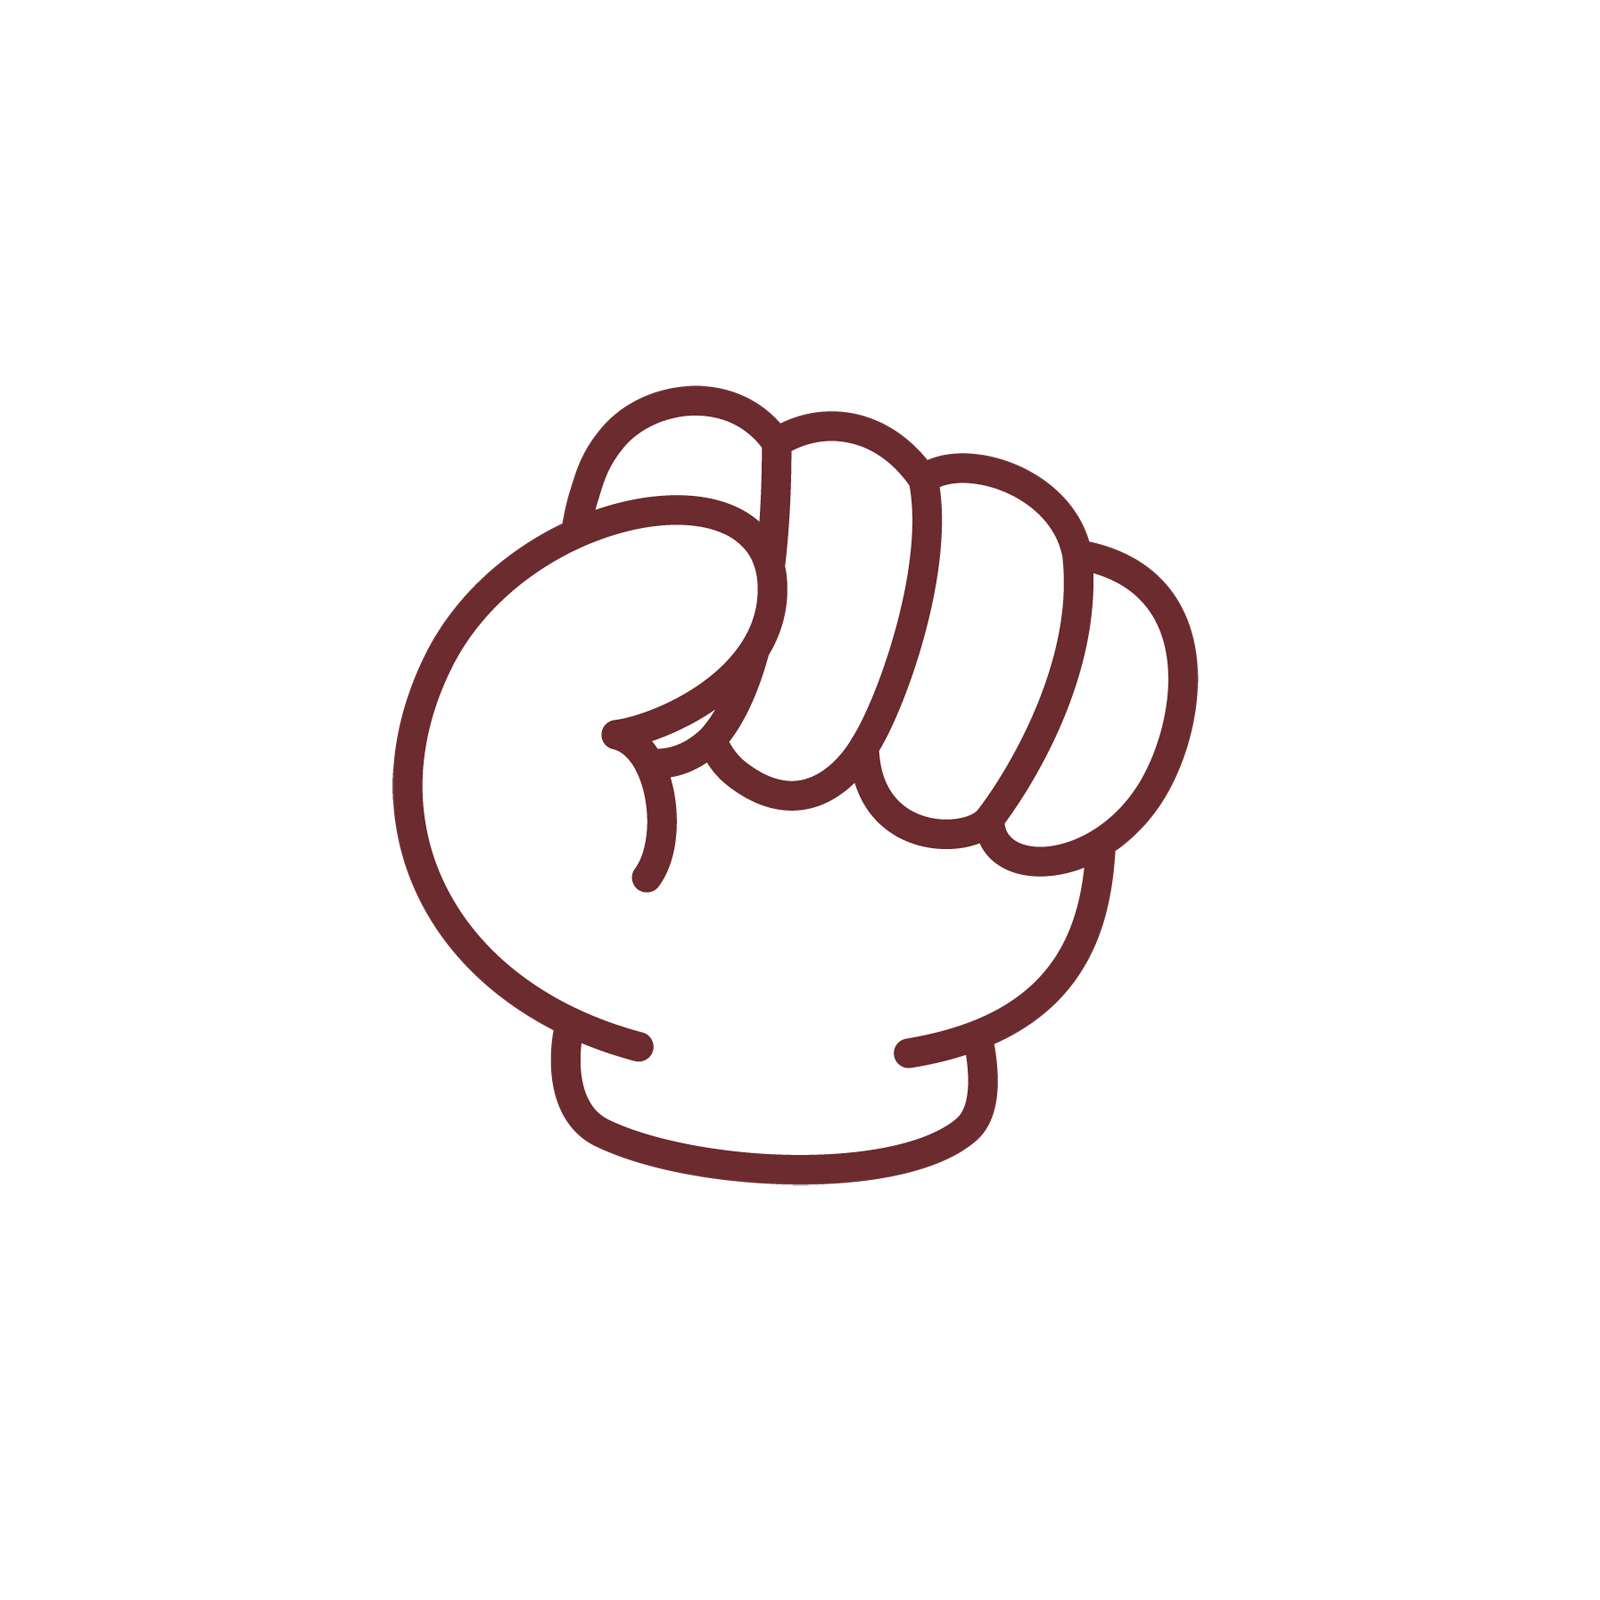
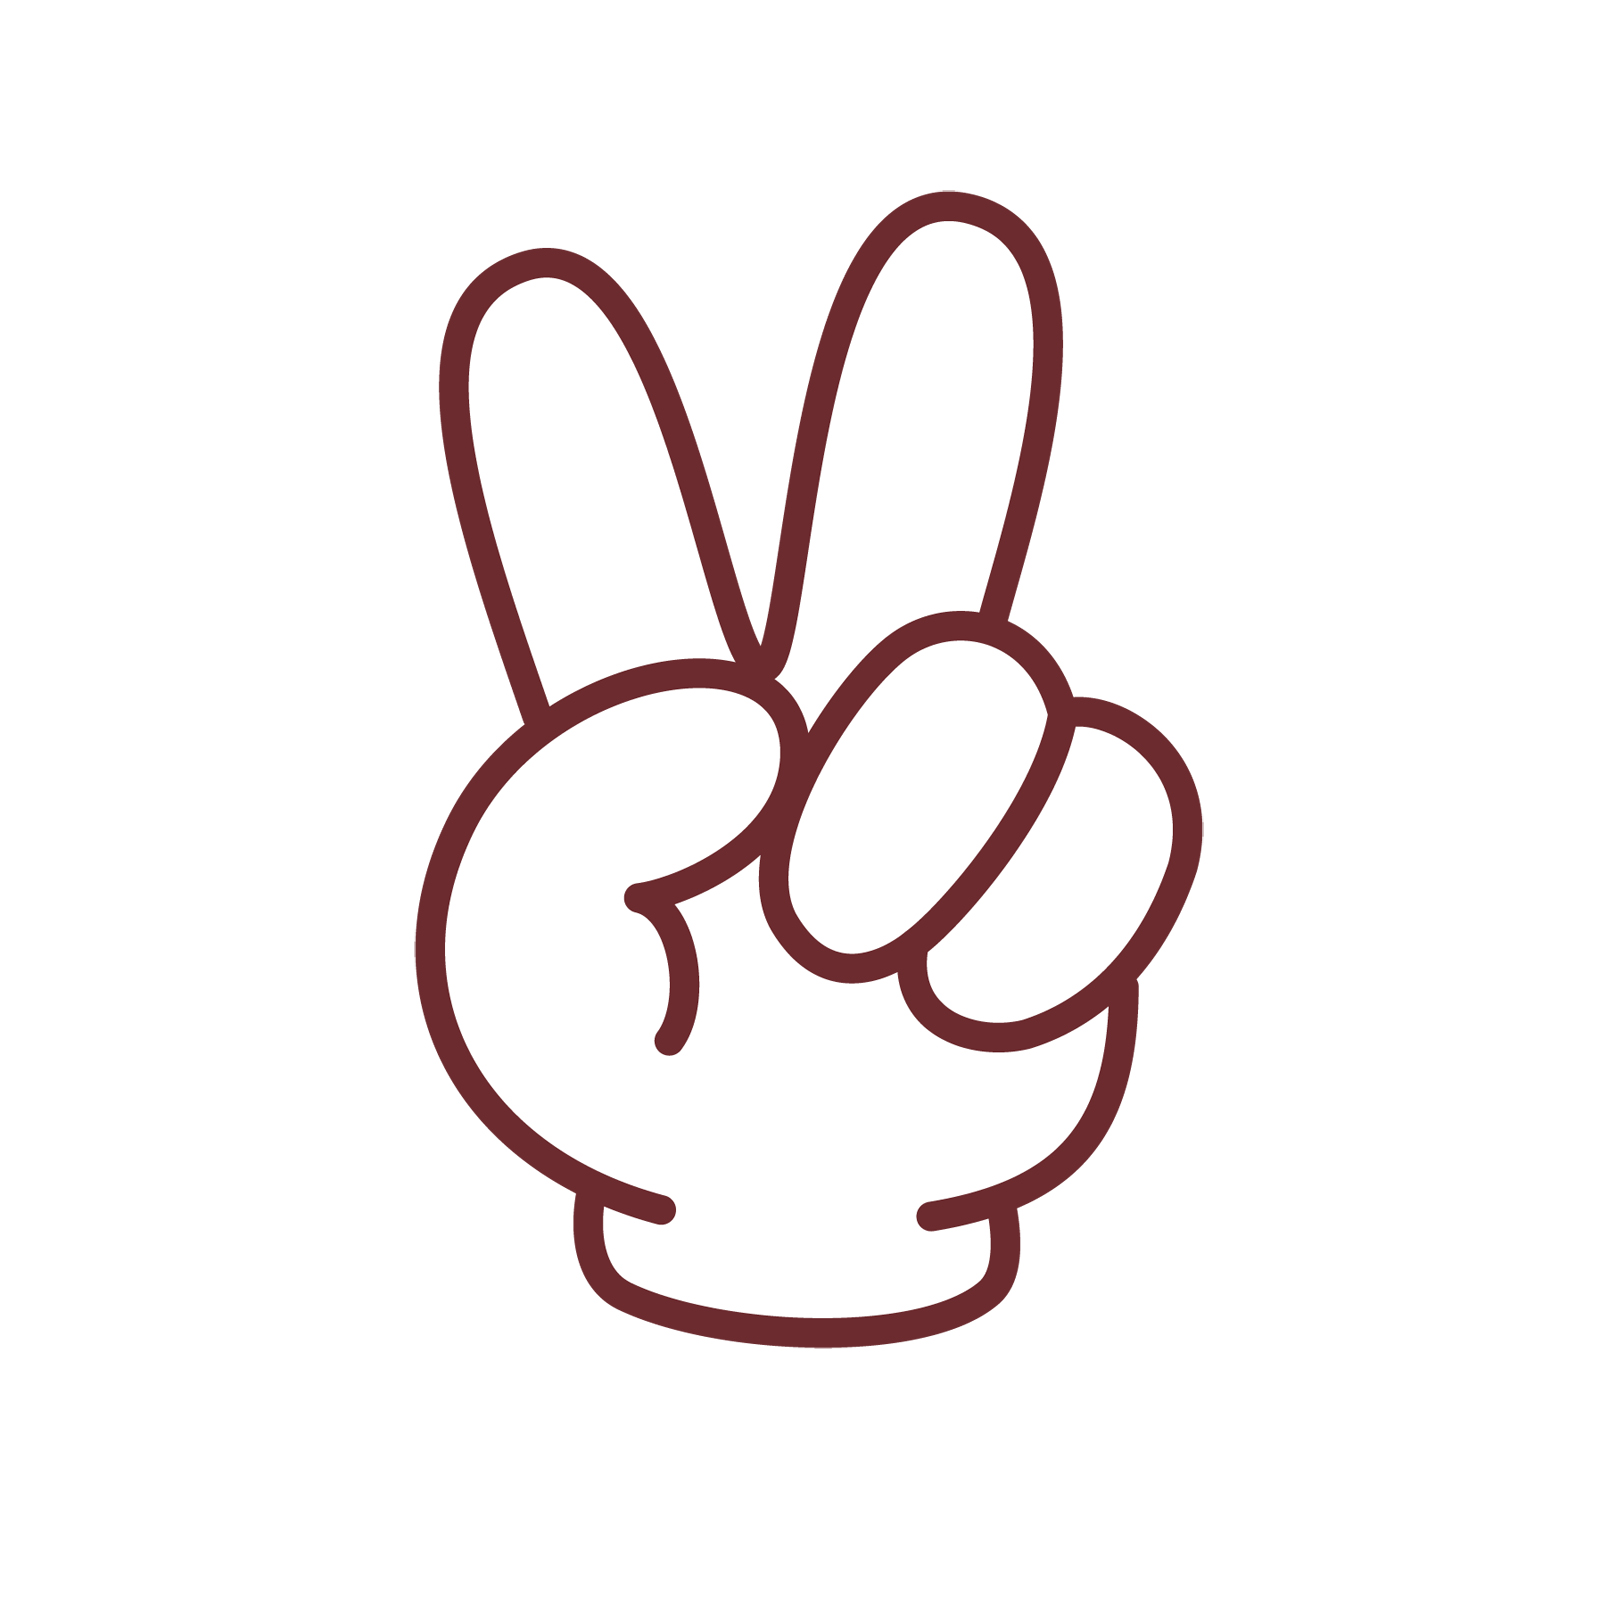
グーチョキパーを0,1,2にする

Changed region(s): [[0.2188, 0.0938, 0.75, 0.8438]]

diff --git a/index.html b/index.html
@@ -28,9 +28,9 @@
     </div>
 
     <div class="hand">
-      <img class="my_hand" src="img/0.jpg" alt="あなた">
+      <img class="my_hand" src="img/3.jpg" alt="あなた">
       <img class="vs" src="img/VS.jpg" alt="VS">
-      <img class="cpu_hand" src="img/0.jpg" alt="相手">
+      <img class="cpu_hand" src="img/3.jpg" alt="相手">
     </div>
 
     <div class="user_name">
@@ -40,13 +40,13 @@
 
     <div class="hand_button hover_ignore">
       <div class="gu">
-        <button type="button" data-hand="1">グー</button>
+        <button type="button" data-hand="0">グー</button>
       </div>
       <div class="choki">
-        <button type="button" data-hand="2">チョキ</button>
+        <button type="button" data-hand="1">チョキ</button>
       </div>
       <div class="pa">
-        <button type="button" data-hand="3">パー</button>
+        <button type="button" data-hand="2">パー</button>
       </div>
     </div>
 
@@ -55,7 +55,7 @@
         <button type="button">スタート</button>
       </div>
       <div class="reset hover_ignore">
-        <button type="button" data-hand="0">リセット</button>
+        <button type="button" data-hand="3">リセット</button>
       </div>
     </div>
 
